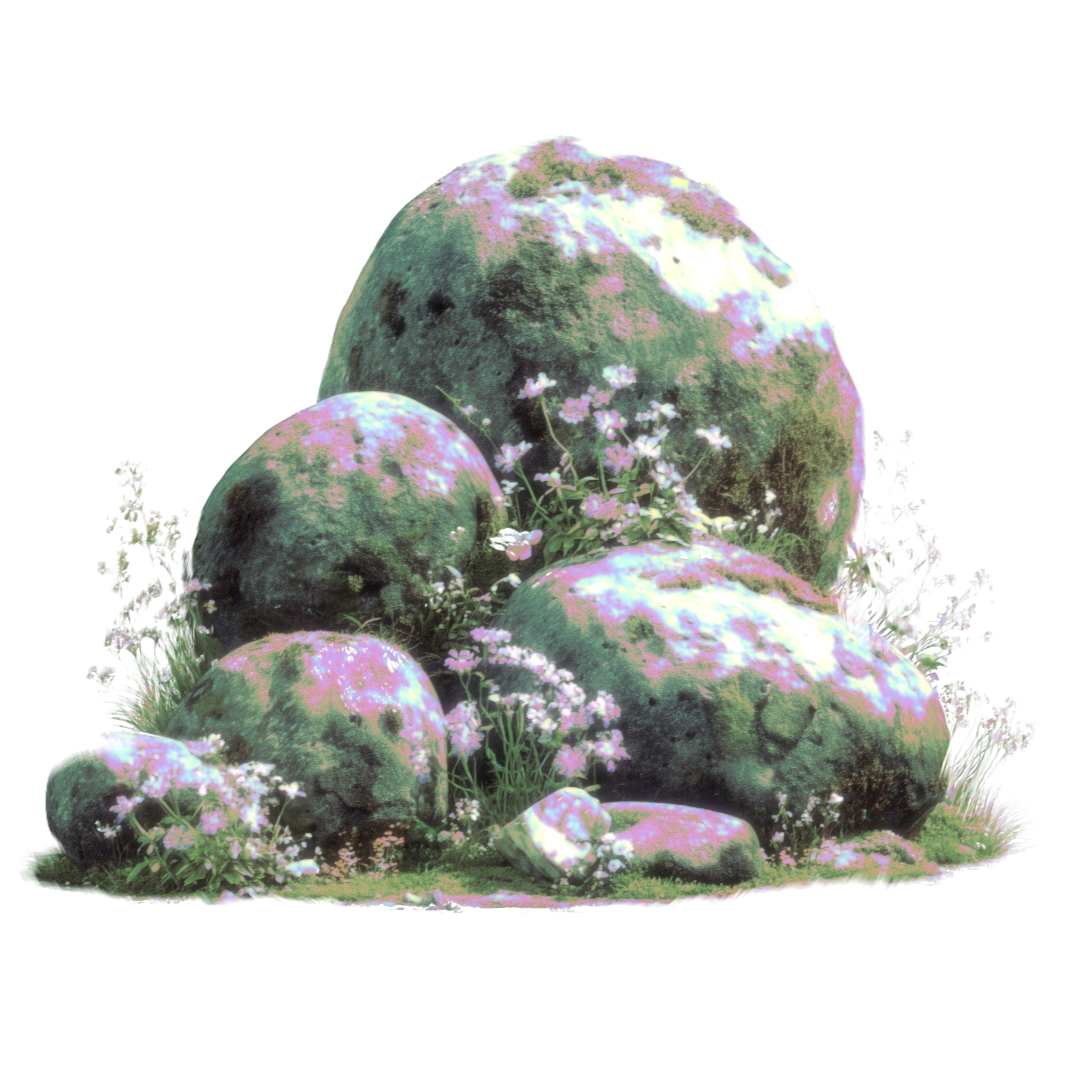
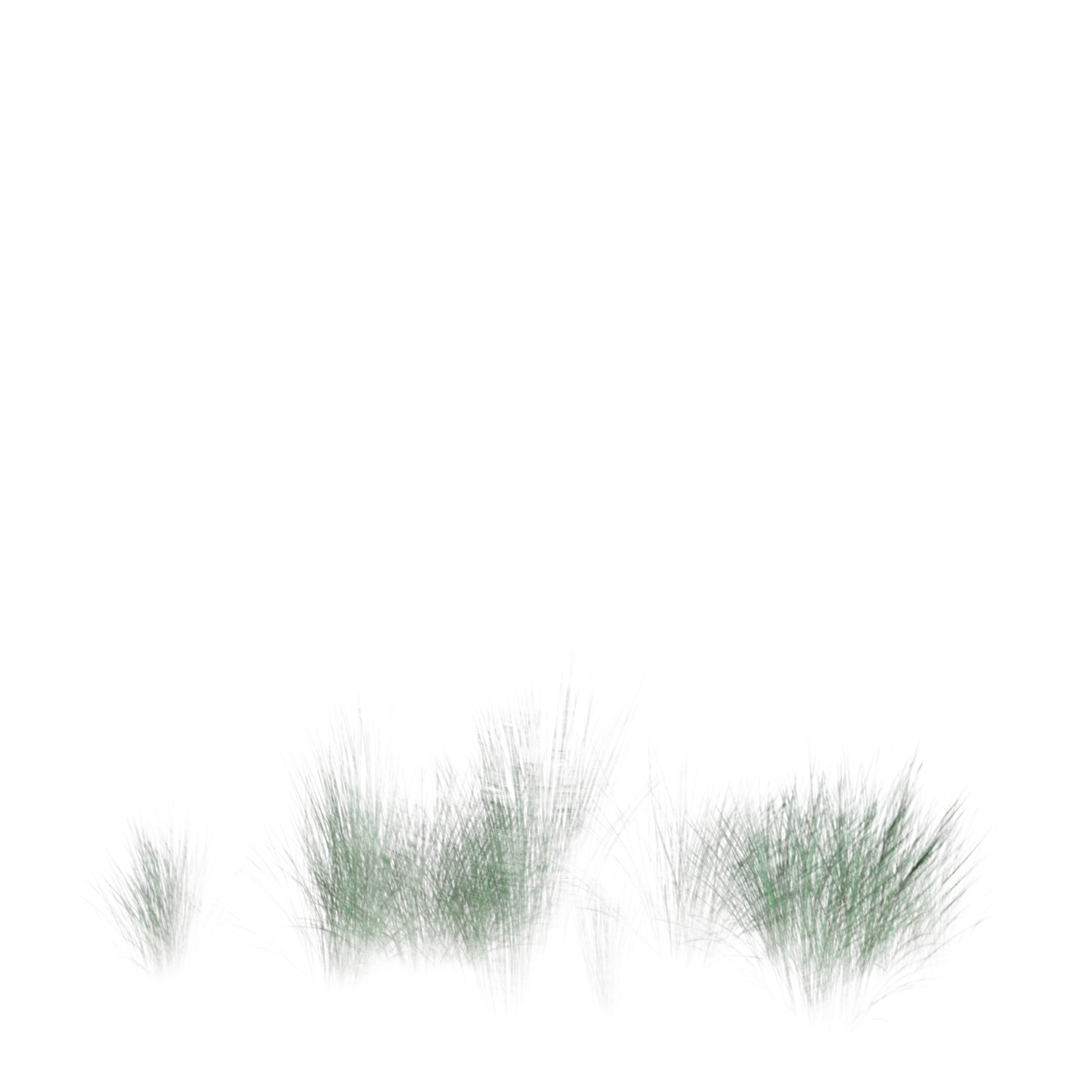
adjustments

diff --git a/src/app/garden/biomes.ts b/src/app/garden/biomes.ts
@@ -208,7 +208,7 @@ export const meadowBiome: BiomeConfig = {
       assets: [
         {
           name: "sky",
-          index: 0,
+          index: 5,
           width: 2048,
           height: 1024,
         },
@@ -224,7 +224,7 @@ export const meadowBiome: BiomeConfig = {
       scale: 0.5,
       anchorY: 0.35,
       baseYOffsetPx: 0,
-      opacity: 0.75,
+      opacity: 0.25,
       assets: [
         {
           name: "hills_far",
@@ -264,6 +264,7 @@ export const meadowBiome: BiomeConfig = {
       scale: 0.8,
       anchorY: 0.1,
       baseYOffsetPx: 50,
+      opacity: 0.8,
       assets: [
         {
           name: "mid_grass",
@@ -283,10 +284,10 @@ export const meadowBiome: BiomeConfig = {
       id: "flora_fg3_g3",
       groupFolder: "flora_group_3",
       role: "FOREGROUND_3",
-      scale: 0.75,
-      anchorY: 50,
+      scale: 1,
+      anchorY: 0,
       baseYOffsetPx: 0,
-      opacity: 0.85,
+      opacity: 1,
       assets: [
         {
           name: "flower",
@@ -316,6 +317,13 @@ export const meadowBiome: BiomeConfig = {
           height: 700,
           xPositions: [520, 1120, 1720, 2320, 2920, 3520, 4120],
         },
+        {
+          name: "rock",
+          index: 1,
+          width: 520,
+          height: 520,
+          xPositions: [1200],
+        },
       ],
     },
 
@@ -324,10 +332,10 @@ export const meadowBiome: BiomeConfig = {
       id: "flora_fg3_g4",
       groupFolder: "flora_group_4",
       role: "FOREGROUND_3",
-      scale: 0.5,
+      scale: 1,
       anchorY: 0.01,
-      baseYOffsetPx: 500,
-      opacity: 0.75,
+      baseYOffsetPx: 0,
+      opacity: 1,
       assets: [
         {
           name: "flower",
@@ -345,14 +353,14 @@ export const meadowBiome: BiomeConfig = {
         },
         {
           name: "grass",
-          index: 1,
+          index: 2,
           width: 520,
           height: 520,
           xPositions: [480, 2880],
         },
         {
           name: "grass",
-          index: 2,
+          index: 3,
           width: 520,
           height: 700,
           xPositions: [300, 900, 1500, 2100, 2700, 3300, 3900],
@@ -371,8 +379,8 @@ export const meadowBiome: BiomeConfig = {
       role: "FOREGROUND_2",
       scale: 1,
       anchorY: 0.2,
-      baseYOffsetPx: 100,
-      opacity: 0.9,
+      baseYOffsetPx: 0,
+      opacity: 1,
       assets: [
         {
           name: "flower",
@@ -412,8 +420,8 @@ export const meadowBiome: BiomeConfig = {
       role: "FOREGROUND_2",
       scale: 1,
       anchorY: 0.25,
-      baseYOffsetPx: 170,
-      opacity: 0.8,
+      baseYOffsetPx: 0,
+      opacity: 1,
       assets: [
         {
           name: "flower",
@@ -443,6 +451,13 @@ export const meadowBiome: BiomeConfig = {
           height: 240,
           xPositions: [2000],
         },
+        {
+          name: "rock",
+          index: 1,
+          width: 520,
+          height: 520,
+          xPositions: [1900],
+        },
       ],
     },
 
@@ -455,9 +470,9 @@ export const meadowBiome: BiomeConfig = {
       id: "flora_fg1_g1",
       groupFolder: "flora_group_1",
       role: "FOREGROUND_1",
-      scale: 2,
-      anchorY: 0.25,
-      baseYOffsetPx: 350,
+      scale: 1,
+      anchorY: 0.1,
+      baseYOffsetPx: 0,
       opacity: 1.0,
       assets: [
         {
